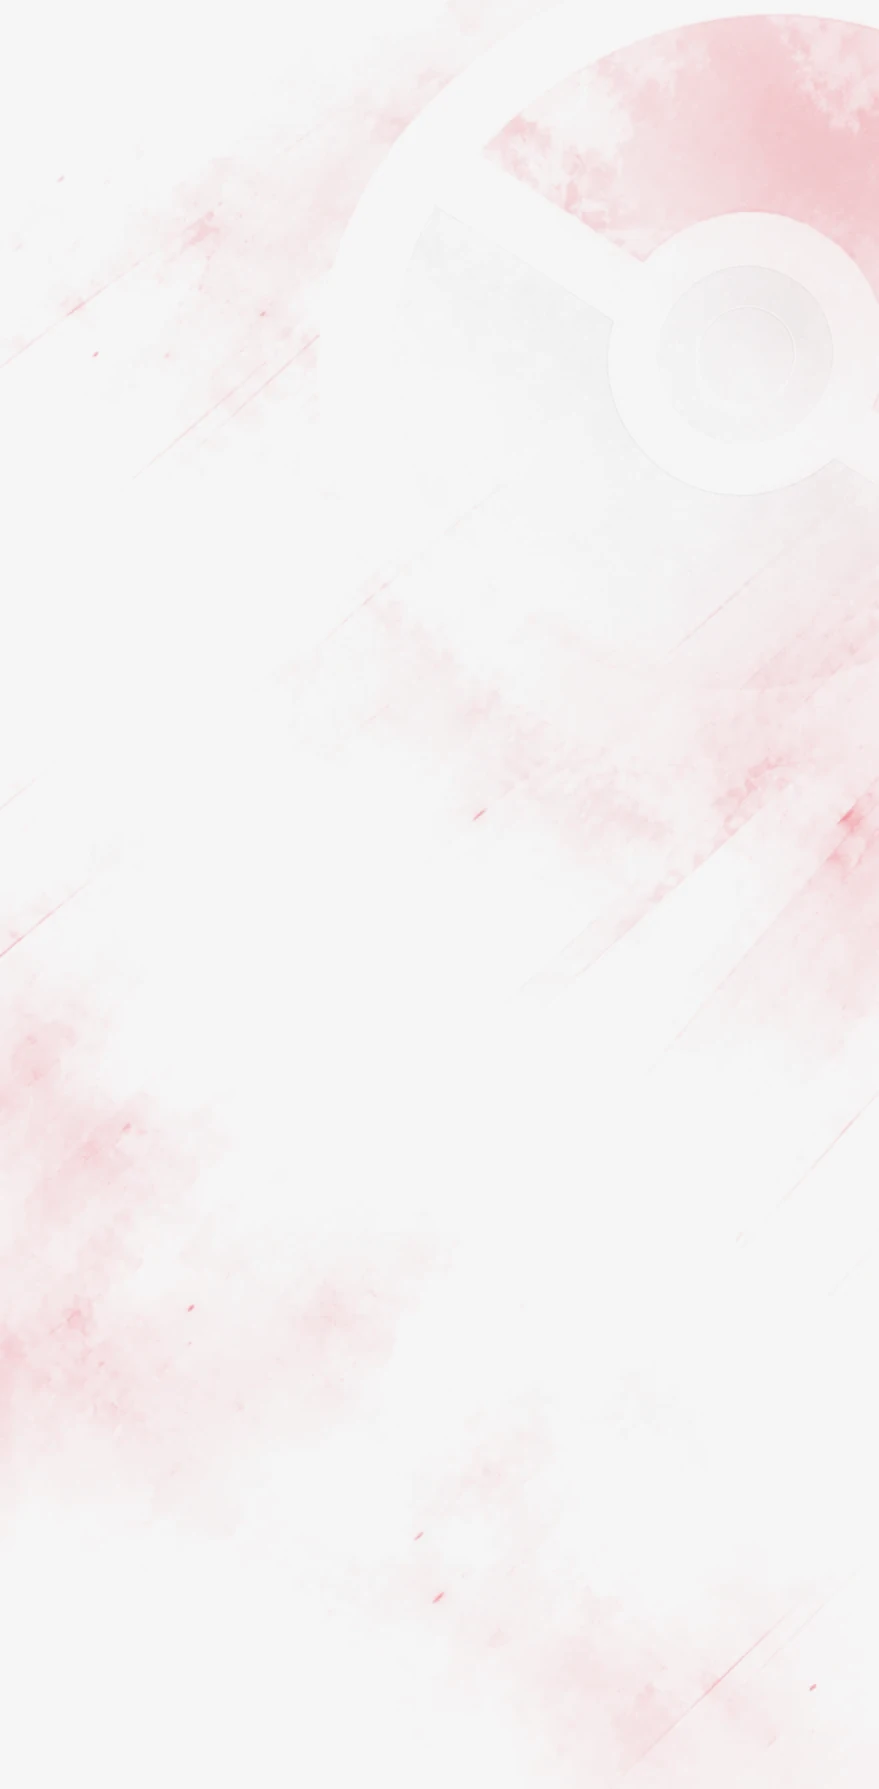
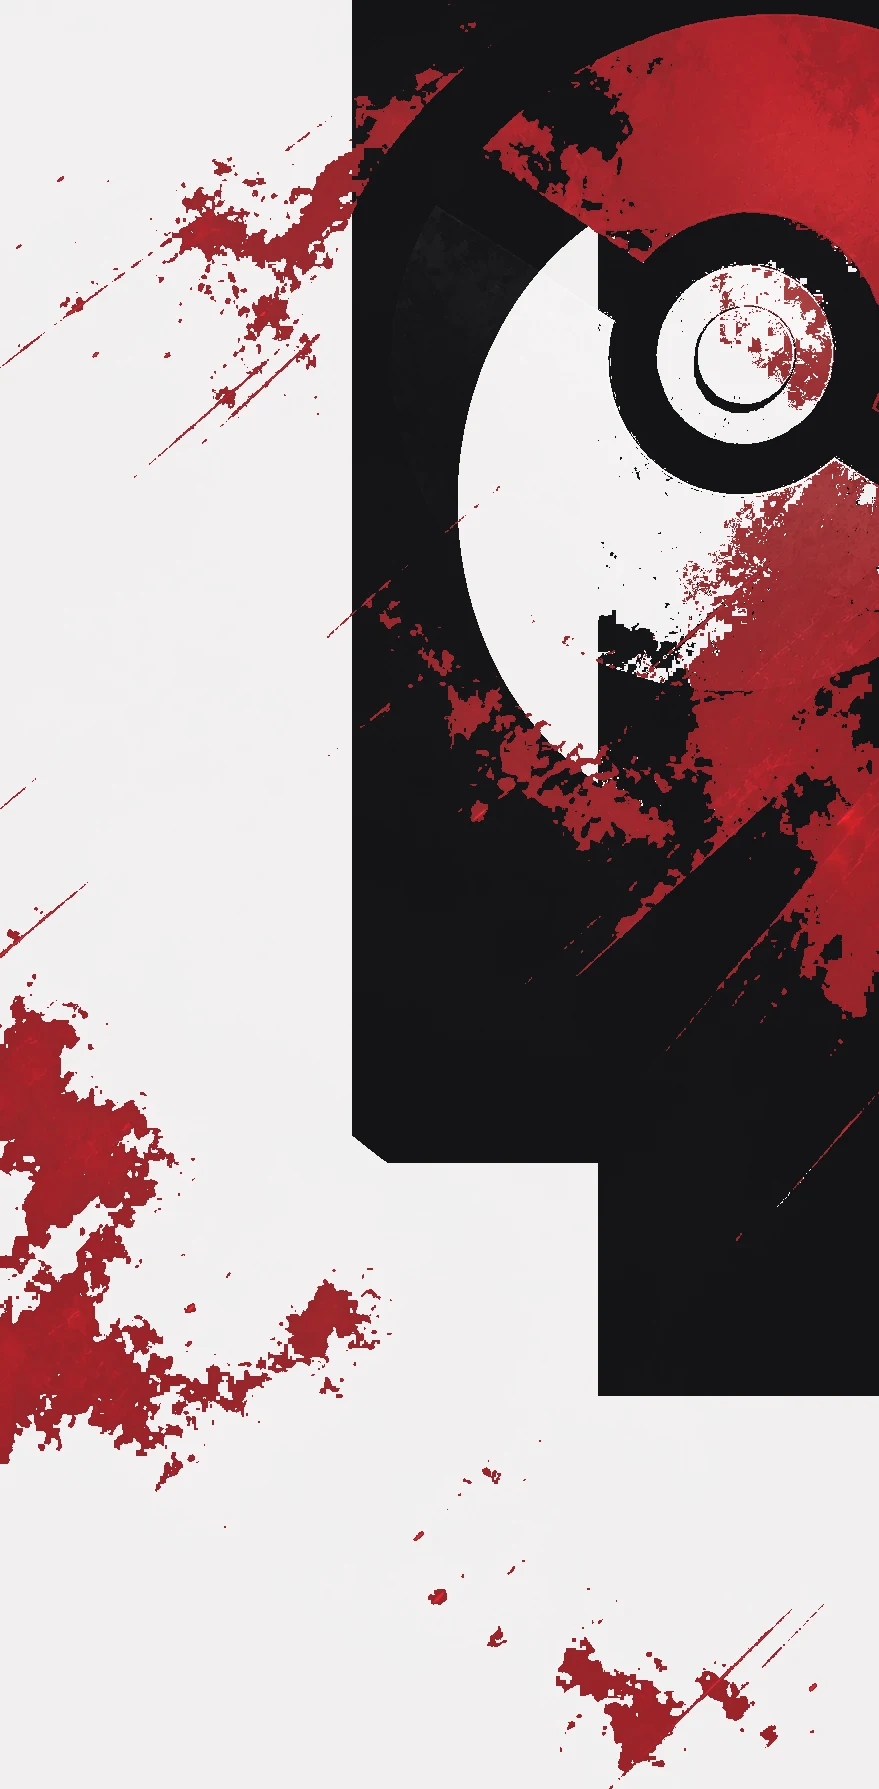
Add files via upload

diff --git a/index.html b/index.html
@@ -1,6 +1,6 @@
-<!doctype html><html lang="en"><head><meta charset="utf-8"><meta name="viewport" content="width=device-width,initial-scale=1"><title>Tak-Dex · Tactical Pokémon Companion</title><link rel="stylesheet" href="styles.css?v=18"><link rel="manifest" href="manifest.webmanifest"></head><body><header class="app-header"><div class="brand"><div class="brand-ball" aria-hidden="true"><span></span></div><div><h1>TAK<span>-DEX</span></h1><p>YOUR TACTICAL POKÉMON COMPANION</p></div></div></header><main><section id="teamsPage"><div class="bar"><h2>My teams</h2><button id="addTeam">+ New team</button></div><div id="teams"></div><section id="editor" hidden><div class="bar"><h2 id="editorTitle"></h2><button id="closeTeam">Close</button></div><p id="editorGame"></p><div id="slots"></div></section></section><section id="battlePage" hidden><h2 class="section-label">◉ OPPONENT</h2><p>Choose the opposing Pokémon to see how effective your team's moves are.</p><div class="mode-switch"><button type="button" id="singleMode" class="selected">Single battle</button><button type="button" id="doubleMode">Double battle</button></div><label>Opponent Pokémon<div class="search battle-search"><input id="foeInput" autocomplete="off" placeholder="Start typing…"><button type="button" class="battle-clear" data-clear-opponent="foeInput" aria-label="Clear opponent" hidden>×</button><div id="foeResults" class="suggestions" hidden></div></div></label><div id="foePreview"></div><div id="secondFoe" hidden><label>Second opponent<div class="search battle-search"><input id="foeInput2" autocomplete="off" placeholder="Start typing…"><button type="button" class="battle-clear" data-clear-opponent="foeInput2" aria-label="Clear opponent" hidden>×</button><div id="foeResults2" class="suggestions" hidden></div></div></label><div id="foePreview2"></div></div><h2 class="section-label results-label">▥ TEAM RECOMMENDATIONS</h2><div id="matchups"></div></section><section id="dexPage" hidden><h2>Pokédex</h2><div class="tool-card"><label>Game<select id="dexGame"></select></label><label>Saved team<select id="dexTeam"></select></label><label>Team Pokémon<select id="dexTeamPoke"></select></label><label>Or search Pokémon<input id="dexInput" placeholder="e.g. Aggron" autocomplete="off"></label><button type="button" id="dexSearch">View Pokémon</button></div><div id="dexResult" aria-live="polite"></div></section><section id="morePage" hidden><h2>More</h2><div class="tool-card"><button type="button" id="openPlanner" class="tool-link">⚔ 6v6 Battle Planner ›</button><button type="button" id="openTM" class="tool-link">▣ TM / HM Compatibility ›</button></div><div class="card theme-card"><h3>Theme</h3><button type="button" id="moreTheme">Toggle light / dark mode</button></div></section><section id="plannerPage" hidden><div class="bar"><h2>6v6 Battle Planner</h2><button type="button" id="backPlanner">← More</button></div><p class="note">This planner uses levels, moves and base stats. It is separate from quick Single / Double battles.</p><div class="tool-card"><label>Game<select id="planGame"></select></label><label>Battle type<select id="planMode"><option value="elite">Elite Four / Champion</option><option value="custom">Custom opponent</option></select></label><div id="eliteOptions"><label>League version<select id="planVersion"><option value="v1">First challenge</option><option value="v2">Rematch / second challenge</option></select></label><label>Trainer<select id="planTrainer"></select></label><p id="eliteNote" class="note"></p></div><label>Import your team<select id="planTeam"></select></label></div><h3>Your Pokémon · editable levels</h3><div id="planOwn" class="planner-grid"></div><h3>Opponent Pokémon · editable levels and moves</h3><div id="planOpp" class="planner-grid"></div><button type="button" id="planAnalyze">Show opponent-by-opponent matchups</button><div id="planResults"></div></section><section id="tmPage" hidden><div class="bar"><h2>TM / HM Compatibility</h2><button type="button" id="backTM">← More</button></div><div class="tool-card"><label>Game<select id="tmGame"></select></label><label>Saved team<select id="tmTeam"></select></label><label>Move / TM / HM<select id="tmMove"></select></label><label>Or Pokémon name<input id="tmPokemon" placeholder="e.g. Crobat"></label><button type="button" id="tmCheck">Check compatibility</button></div><div id="tmResults"></div></section></main><nav class="main-tabs" aria-label="Main navigation">
+<!doctype html><html lang="en"><head><meta charset="utf-8"><meta name="viewport" content="width=device-width,initial-scale=1"><title>Tak-Dex · Tactical Pokémon Companion</title><link rel="stylesheet" href="styles.css?v=19"><link rel="manifest" href="manifest.webmanifest"></head><body><header class="app-header"><div class="brand"><div class="brand-ball" aria-hidden="true"><span></span></div><div><h1>TAK<span>-DEX</span></h1><p>YOUR TACTICAL POKÉMON COMPANION</p></div></div></header><main><section id="teamsPage"><div class="bar"><h2>My teams</h2><button id="addTeam">+ New team</button></div><div id="teams"></div><section id="editor" hidden><div class="bar"><h2 id="editorTitle"></h2><button id="closeTeam">Close</button></div><p id="editorGame"></p><div id="slots"></div></section></section><section id="battlePage" hidden><h2 class="section-label">◉ OPPONENT</h2><p>Choose the opposing Pokémon to see how effective your team's moves are.</p><div class="mode-switch"><button type="button" id="singleMode" class="selected">Single battle</button><button type="button" id="doubleMode">Double battle</button></div><label>Opponent Pokémon<div class="search battle-search"><input id="foeInput" autocomplete="off" placeholder="Start typing…"><button type="button" class="battle-clear" data-clear-opponent="foeInput" aria-label="Clear opponent" hidden>×</button><div id="foeResults" class="suggestions" hidden></div></div></label><div id="foePreview"></div><div id="secondFoe" hidden><label>Second opponent<div class="search battle-search"><input id="foeInput2" autocomplete="off" placeholder="Start typing…"><button type="button" class="battle-clear" data-clear-opponent="foeInput2" aria-label="Clear opponent" hidden>×</button><div id="foeResults2" class="suggestions" hidden></div></div></label><div id="foePreview2"></div></div><h2 class="section-label results-label">▥ TEAM RECOMMENDATIONS</h2><div id="matchups"></div></section><section id="dexPage" hidden><h2>Pokédex</h2><div class="tool-card"><label>Game<select id="dexGame"></select></label><label>Saved team<select id="dexTeam"></select></label><label>Team Pokémon<select id="dexTeamPoke"></select></label><label>Or search Pokémon<input id="dexInput" placeholder="e.g. Aggron" autocomplete="off"></label><button type="button" id="dexSearch">View Pokémon</button></div><div id="dexResult" aria-live="polite"></div></section><section id="morePage" hidden><h2>More</h2><div class="tool-card"><button type="button" id="openPlanner" class="tool-link">⚔ 6v6 Battle Planner ›</button><button type="button" id="openTM" class="tool-link">▣ TM / HM Compatibility ›</button></div><div class="card offline-card"><h3>Offline data</h3><p id="offlineStatus" class="note">Checking offline data…</p><button type="button" id="offlineDownload">Download / update saved-team data</button><p class="note">Optional: saves Pokémon and move details for your saved teams. Full Pokédex offline support is not available yet.</p></div><div class="card theme-card"><h3>Theme</h3><button type="button" id="moreTheme">Toggle light / dark mode</button></div></section><section id="plannerPage" hidden><div class="bar"><h2>6v6 Battle Planner</h2><button type="button" id="backPlanner">← More</button></div><p class="note">This planner uses levels, moves and base stats. It is separate from quick Single / Double battles.</p><div class="tool-card"><label>Game<select id="planGame"></select></label><label>Battle type<select id="planMode"><option value="elite">Elite Four / Champion</option><option value="custom">Custom opponent</option></select></label><div id="eliteOptions"><label>League version<select id="planVersion"><option value="v1">First challenge</option><option value="v2">Rematch / second challenge</option></select></label><label>Trainer<select id="planTrainer"></select></label><p id="eliteNote" class="note"></p></div><label>Import your team<select id="planTeam"></select></label></div><h3>Your Pokémon · editable levels</h3><div id="planOwn" class="planner-grid"></div><h3>Opponent Pokémon · editable levels and moves</h3><div id="planOpp" class="planner-grid"></div><button type="button" id="planAnalyze">Show opponent-by-opponent matchups</button><div id="planResults"></div></section><section id="tmPage" hidden><div class="bar"><h2>TM / HM Compatibility</h2><button type="button" id="backTM">← More</button></div><div class="tool-card"><label>Game<select id="tmGame"></select></label><label>Saved team<select id="tmTeam"></select></label><label>Move / TM / HM<select id="tmMove"></select></label><label>Or Pokémon name<input id="tmPokemon" placeholder="e.g. Crobat"></label><button type="button" id="tmCheck">Check compatibility</button></div><div id="tmResults"></div></section></main><nav class="main-tabs" aria-label="Main navigation">
 <button type="button" id="teamsTab" class="selected" aria-label="Team"><svg viewBox="0 0 24 24" fill="currentColor"><circle cx="12" cy="6" r="4"/><circle cx="4.5" cy="9" r="3"/><circle cx="19.5" cy="9" r="3"/><path d="M4 20v-3a8 8 0 0 1 16 0v3H4ZM0 20v-4a5 5 0 0 1 4-4v8H0Zm20 0v-8a5 5 0 0 1 4 4v4h-4Z"/></svg><span>Team</span></button>
 <button type="button" id="battleTab" aria-label="Battle"><svg viewBox="0 0 24 24" fill="none" stroke="currentColor" stroke-width="2.7" stroke-linecap="round" stroke-linejoin="round"><path d="M5 3 19 21M19 3 5 21M4 4l3-1-1 4M20 4l-3-1 1 4M2 21l5-5m15 5-5-5"/></svg><span>Battle</span></button>
 <button type="button" id="dexTab" aria-label="Pokédex"><svg viewBox="0 0 24 24" fill="none" stroke="currentColor" stroke-width="2.3"><rect x="3" y="2" width="18" height="20" rx="2"/><path d="M3 12h18"/><circle cx="12" cy="12" r="3" fill="var(--nav-bg,#14161b)"/></svg><span>Pokédex</span></button>
 <button type="button" id="moreTab" aria-label="More"><svg viewBox="0 0 24 24" fill="currentColor"><circle cx="4" cy="12" r="2.5"/><circle cx="12" cy="12" r="2.5"/><circle cx="20" cy="12" r="2.5"/></svg><span>More</span></button>
-</nav><dialog id="newDialog"><form id="newForm"><h2>New team</h2><label>Team name<input id="teamName" required maxlength="40" placeholder="My Emerald team"></label><label>Game<select id="game"></select></label><div class="buttons"><button type="button" id="cancelNew">Cancel</button><button>Create team</button></div></form></dialog><dialog id="pokeDialog"><form id="pokeForm"><div class="bar"><h2 id="pokeHeading">Pokémon</h2><button type="button" id="cancelPoke">×</button></div><label>Pokémon<div class="search"><input id="pokeInput" autocomplete="off" placeholder="Start typing…"><div id="pokeResults" class="suggestions" hidden></div></div></label><div id="pokePreview"></div><h3>Attacks</h3><div id="moveFields"></div><p class="note" id="moveNote">Select a Pokémon to load its moves.</p><p class="error" id="error" hidden></p><div class="buttons"><button type="button" id="evolvePoke" hidden>↑ Evolve</button><button type="button" id="removePoke">Remove</button><button id="savePoke" disabled>Save Pokémon</button></div></form></dialog><footer>TAK-DEX · Teams saved on this device · First Pokémon lookup needs internet.</footer><script src="app.js?v=18"></script></body></html>
+</nav><dialog id="newDialog"><form id="newForm"><h2>New team</h2><label>Team name<input id="teamName" required maxlength="40" placeholder="My Emerald team"></label><label>Game<select id="game"></select></label><div class="buttons"><button type="button" id="cancelNew">Cancel</button><button>Create team</button></div></form></dialog><dialog id="pokeDialog"><form id="pokeForm"><div class="bar"><h2 id="pokeHeading">Pokémon</h2><button type="button" id="cancelPoke">×</button></div><label>Pokémon<div class="search"><input id="pokeInput" autocomplete="off" placeholder="Start typing…"><div id="pokeResults" class="suggestions" hidden></div></div></label><div id="pokePreview"></div><h3>Attacks</h3><div id="moveFields"></div><p class="note" id="moveNote">Select a Pokémon to load its moves.</p><p class="error" id="error" hidden></p><div class="buttons"><button type="button" id="evolvePoke" hidden>↑ Evolve</button><button type="button" id="removePoke">Remove</button><button id="savePoke" disabled>Save Pokémon</button></div></form></dialog><footer>TAK-DEX · Teams saved on this device · First Pokémon lookup needs internet.</footer><script src="app.js?v=19"></script></body></html>

diff --git a/app.js b/app.js
@@ -393,3 +393,22 @@ for(const id of ['foeInput','foeInput2']){
  clear.addEventListener('click',()=>{field.value='';field.dispatchEvent(new Event('input',{bubbles:true}));$(id==='foeInput'?'foePreview':'foePreview2').innerHTML='';if(id==='foeInput')foe=null;else foe2=null;showBattle();field.focus();update()});
  update();
 }
+
+// V19: optional, explicitly scoped saved-team offline cache. Does not claim full Pokédex coverage.
+(function(){
+ const btn=document.getElementById('offlineDownload'), status=document.getElementById('offlineStatus');
+ const key='takdex-offline-team-pack-v1';
+ function refresh(){const stamp=localStorage.getItem(key);status.textContent=stamp?'🟢 Saved-team data cached · '+new Date(stamp).toLocaleDateString():'⚪ Saved-team offline data not downloaded';}
+ btn.addEventListener('click',async()=>{
+  btn.disabled=true;status.textContent='Downloading saved-team Pokémon and moves…';
+  try{
+   await api('pokemon?limit=2000');
+   const ids=new Set(teams.flatMap(t=>(t.pokemon||[]).filter(Boolean).map(p=>p.id)));
+   const moves=new Set(teams.flatMap(t=>(t.pokemon||[]).filter(Boolean).flatMap(p=>(p.moves||[]).map(m=>m.name.toLowerCase().replace(/\s+/g,'-')))));
+   let done=0;const tasks=[...ids].map(id=>'pokemon/'+id).concat([...moves].map(m=>'move/'+m));
+   for(const path of tasks){await api(path);done++;status.textContent='Caching '+done+' / '+tasks.length+' records…'}
+   localStorage.setItem(key,new Date().toISOString());refresh();
+  }catch(e){status.textContent='Download incomplete. Internet or storage may be unavailable.'}
+  finally{btn.disabled=false}
+ });refresh();
+})();

diff --git a/sw.js b/sw.js
@@ -1,1 +1,1 @@
-const NAME='takdex-v18-20261030';const FILES=['./','./index.html','./styles.css','./app.js','./manifest.webmanifest','./takdex-background.webp','./takdex-background-light.webp','./takdex-background.webp'];self.addEventListener('install',e=>{self.skipWaiting();e.waitUntil(caches.open(NAME).then(c=>c.addAll(FILES)))});self.addEventListener('activate',e=>e.waitUntil(caches.keys().then(keys=>Promise.all(keys.filter(k=>k!==NAME).map(k=>caches.delete(k)))).then(()=>self.clients.claim())));self.addEventListener('fetch',e=>{if(new URL(e.request.url).origin!==self.location.origin)return;e.respondWith(fetch(e.request).catch(()=>caches.match(e.request)))});
+const NAME='takdex-v19-20261030';const FILES=['./','./index.html','./styles.css','./app.js','./manifest.webmanifest','./takdex-background.webp','./takdex-background-light.webp'];self.addEventListener('install',e=>{self.skipWaiting();e.waitUntil(caches.open(NAME).then(c=>c.addAll(FILES)))});self.addEventListener('activate',e=>e.waitUntil(caches.keys().then(keys=>Promise.all(keys.filter(k=>k!==NAME).map(k=>caches.delete(k)))).then(()=>self.clients.claim())));self.addEventListener('fetch',e=>{if(new URL(e.request.url).origin!==self.location.origin)return;e.respondWith(fetch(e.request).catch(()=>caches.match(e.request)))});

diff --git a/README.md b/README.md
@@ -1,9 +1,1 @@
-Tak-Dex V17
-
-Six opponent-by-opponent rankings, each with all saved team Pokémon, best moves, and expandable move/defensive details. Original Single/Double battle is unchanged.
-
-Elite Four automatic roster coverage remains Emerald only. Other games have custom opponent entry; no invented teams or rematches.
-
-Upload all 8 files to GitHub Pages. Existing teams are stored in browser localStorage.
-
-V18: light theme exact wallpaper geometry recolored, battle opponent input auto-select and one-tap clear.
+Tak-Dex V19: light wallpaper with black grunge contours and optional saved-team offline cache. This is NOT a complete offline Pokémon database or APK. Upload all 8 files. Existing browser teams remain in localStorage.
